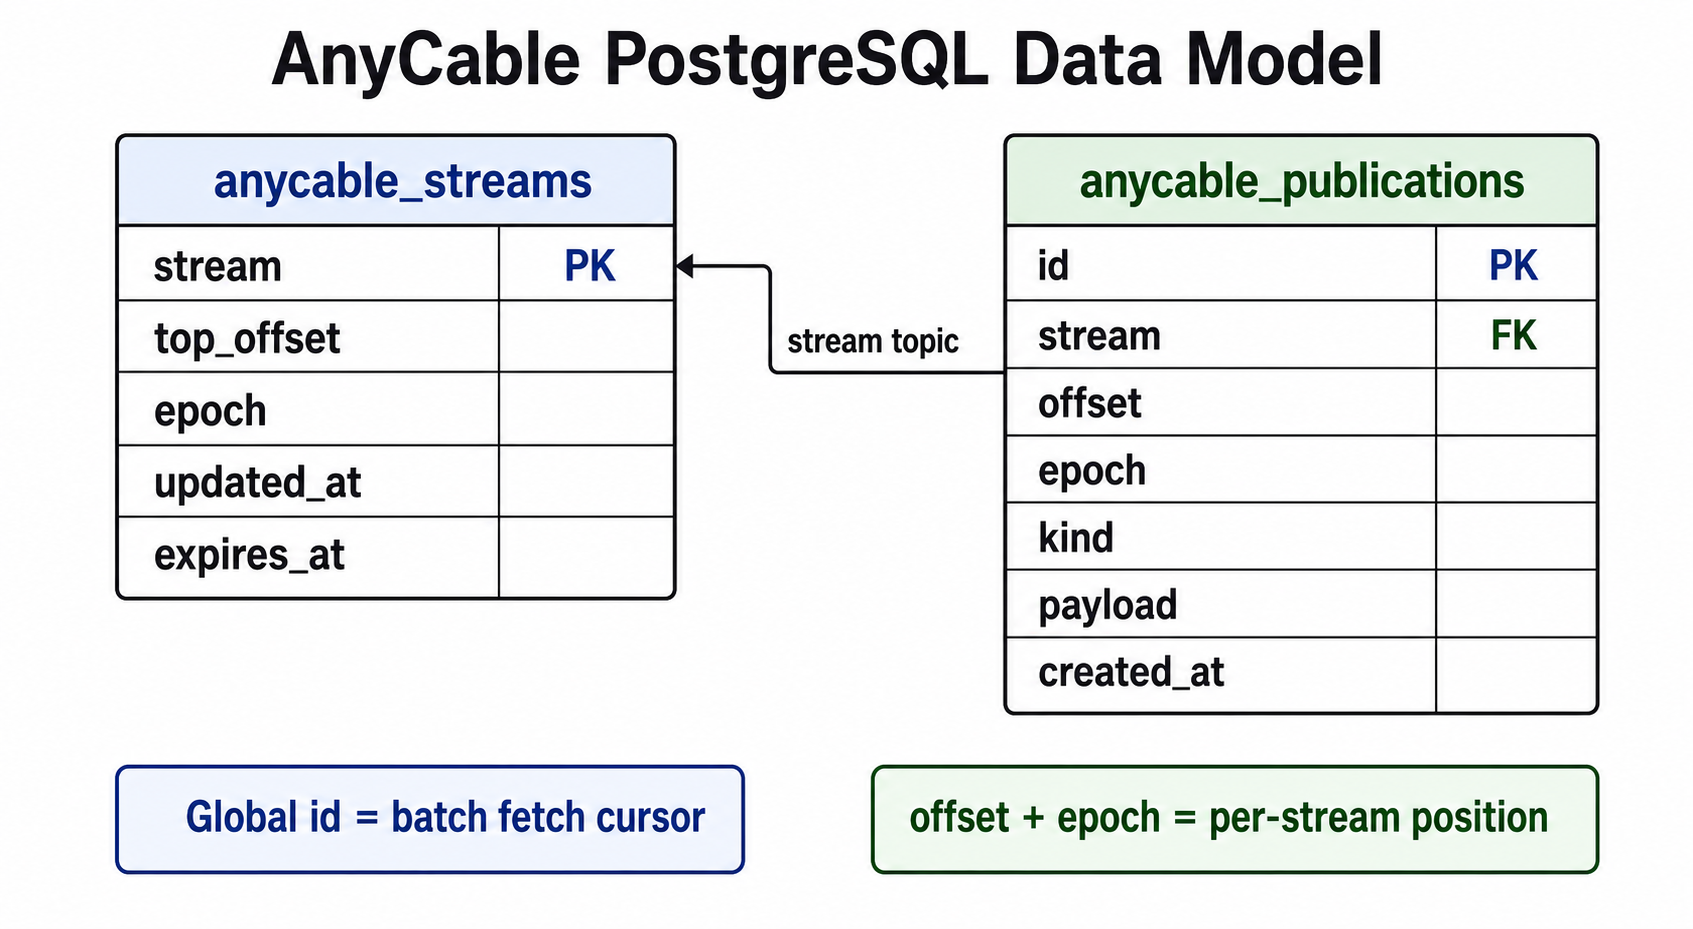
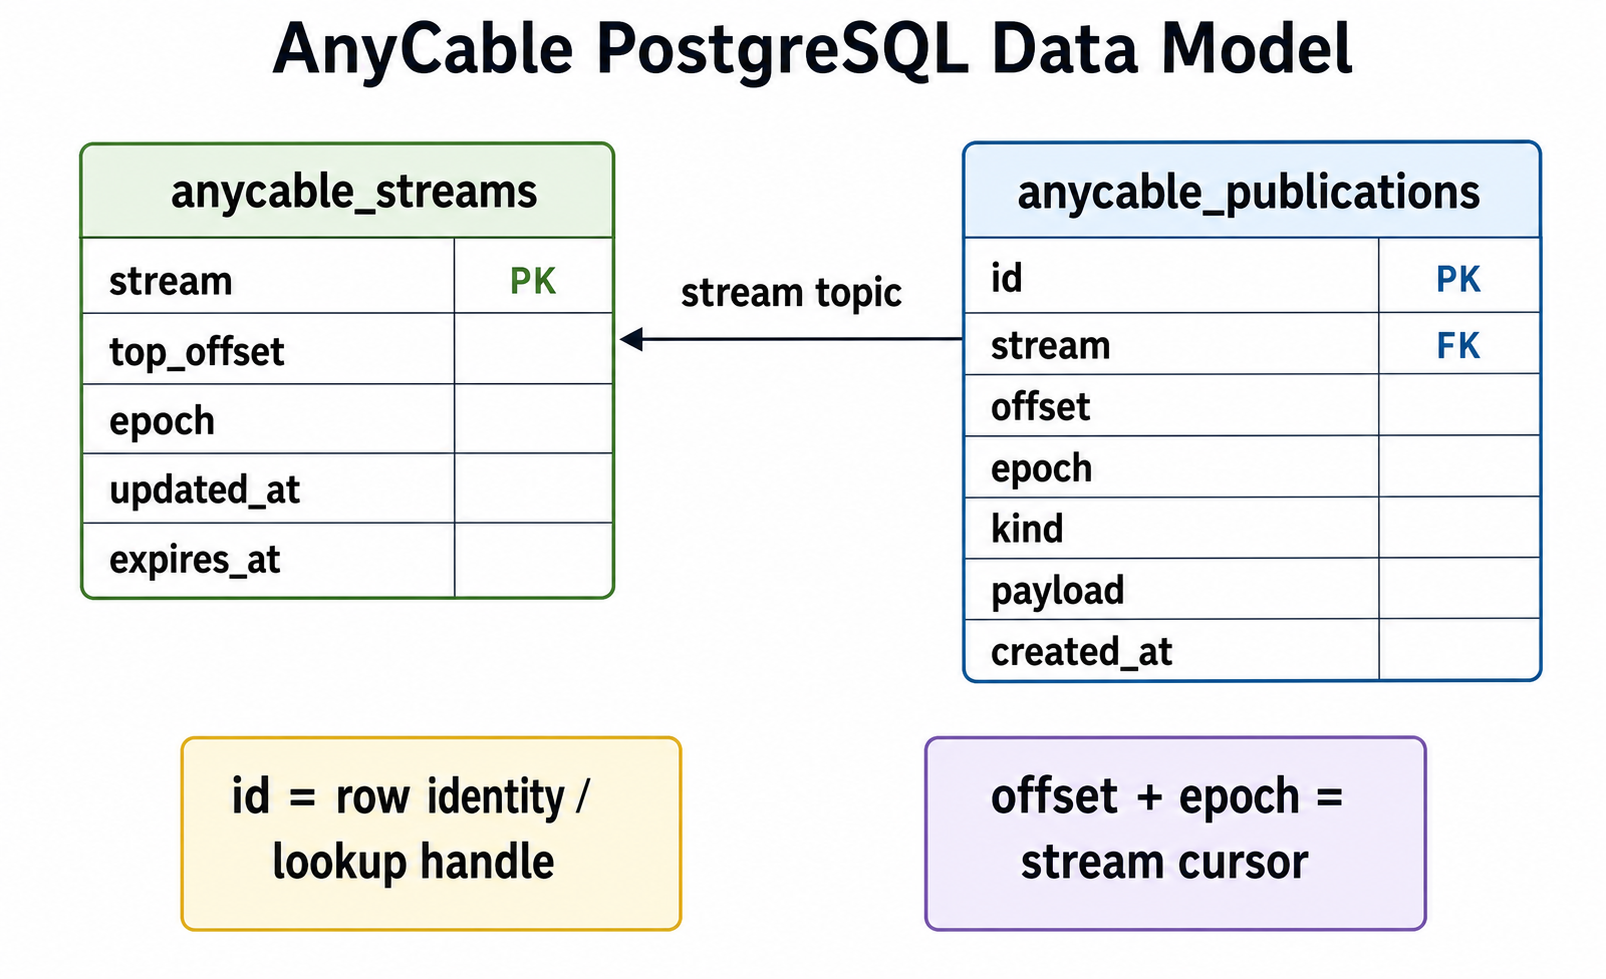
Align Postgres plan with stream notifications

diff --git a/docs/postgres-signalling-plan.md b/docs/postgres-signalling-plan.md
@@ -5,9 +5,9 @@ It uses the following vocabulary:
 
 - A stream is a named topic, not a worker.
 - A publication is one event for one stream.
-- `publication.id` is a global fetch cursor used for batching.
+- `publication.id` is a durable row identity and optional lookup handle, not a stream position.
 - `publication.offset` plus `publication.epoch` is the stream-local position used for history and recovery semantics.
-- `NOTIFY` is only a wakeup signal; durable payload data lives in PostgreSQL.
+- `NOTIFY` carries the updated stream name as a wakeup signal; durable payload data lives in PostgreSQL.
 
 ## Target Shape
 
@@ -43,15 +43,15 @@ anycable_publications
 
 Primary indexes:
 
-- `anycable_publications(id)` for global batch reads.
-- `anycable_publications(stream, epoch, offset)` for future history and broker reads.
+- `anycable_publications(id)` for row identity and optional direct lookups.
+- `anycable_publications(stream, epoch, offset)` for changed-stream catch-up, history, and broker reads.
 - `anycable_publications(created_at)` for cleanup.
 - `anycable_streams(expires_at)` if stream metadata expiry is supported.
 
 Rollback semantics:
 
 - Stream offsets should be transactional. If the publish transaction rolls back, the stream offset increment rolls back too.
-- The global `id` may have gaps because it is backed by a PostgreSQL sequence. That is acceptable because it is only a batch cursor, not a stream position.
+- The global `id` may have gaps because it is backed by a PostgreSQL sequence. That is acceptable because it is only row identity, not a stream position.
 
 ## Dataflow
 
@@ -61,9 +61,9 @@ Rollback semantics:
 2. PostgreSQL upserts and locks the `anycable_streams` row for the stream.
 3. PostgreSQL increments `top_offset` and inserts a canonical `anycable_publications` row with `(stream, offset, epoch, payload)`.
 4. PostgreSQL sends `pg_notify` with the updated stream name, signalling that nodes interested in that stream should catch up.
-5. AnyCable nodes wake and batch-fetch publication rows by global `id`.
-6. Each node advances its global observed cursor across all fetched rows.
-7. Each node forwards only rows whose `stream` has local subscribers.
+5. AnyCable nodes wake and check whether the stream is locally subscribed.
+6. Interested nodes batch-fetch new publication rows for changed subscribed streams by stream-local position.
+7. Each node advances its observed cursor for the fetched stream.
 8. Connected clients receive the publication with stream-local `offset` and `epoch`.
 
 ## SQL Functions
@@ -88,20 +88,23 @@ Rollback semantics:
 - Automatically create or actualize the PostgreSQL schema when a PostgreSQL-backed component is active.
 - Add a concise opt-out flag, for example `--disable-postgres-schema-check`, for deployments that manage schema separately.
 - Fail startup when PostgreSQL schema checking is enabled and required tables, functions, or indexes are missing or incompatible.
-- Rework PostgreSQL pub/sub polling around one global cursor:
+- Rework PostgreSQL pub/sub polling around coalesced changed-stream catch-up:
 
 ```sql
 SELECT id, stream, offset, epoch, kind, payload
 FROM anycable_publications
-WHERE id > $1
-ORDER BY id
-LIMIT $2;
+WHERE stream = $1
+  AND epoch = $2
+  AND offset > $3
+ORDER BY offset
+LIMIT $4;
 ```
 
 - Maintain the local subscription map in Go.
 - Treat `NOTIFY` payloads as stream names. A notification means "this stream changed recently; catch up if this node is subscribed."
-- Route fetched rows locally only when the row stream is subscribed.
-- Advance the global cursor across ignored rows too, so unrelated streams do not cause repeated reads.
+- Coalesce pending stream names and batch-fetch changed subscribed streams instead of polling every subscribed stream. The single-stream query above can be generalized with a `VALUES` list of `(stream, epoch, offset)` cursors.
+- Track observed position per stream, using `offset` and `epoch`.
+- Ignore notifications for streams with no local subscribers.
 - Avoid passing already-positioned publications through broker paths that overwrite `Offset` and `Epoch`.
 
 ## Ruby and Rails Changes
@@ -129,9 +132,11 @@ Schema and function tests:
 
 Pub/sub behavior tests:
 
-- One poll batch fetches publications globally, not per stream.
+- The hot path does not query once for every subscribed stream.
 - `NOTIFY` payloads include stream names so each node can check whether that stream is locally subscribed before fetching.
-- A node subscribed to `stream_a` receives only `stream_a` rows while advancing past `stream_b` rows.
+- A node subscribed to `stream_a` fetches and receives only `stream_a` rows when `stream_a` is notified.
+- Notifications for unsubscribed streams do not trigger publication fetches.
+- Multiple changed subscribed streams can be coalesced into a bounded batch of catch-up reads.
 - Two nodes both receive the same publication when both are subscribed.
 - Repeated wakeups or ticks do not duplicate delivery.
 - Late subscription starts from the current tail unless a PostgreSQL broker/history mode is implemented.
